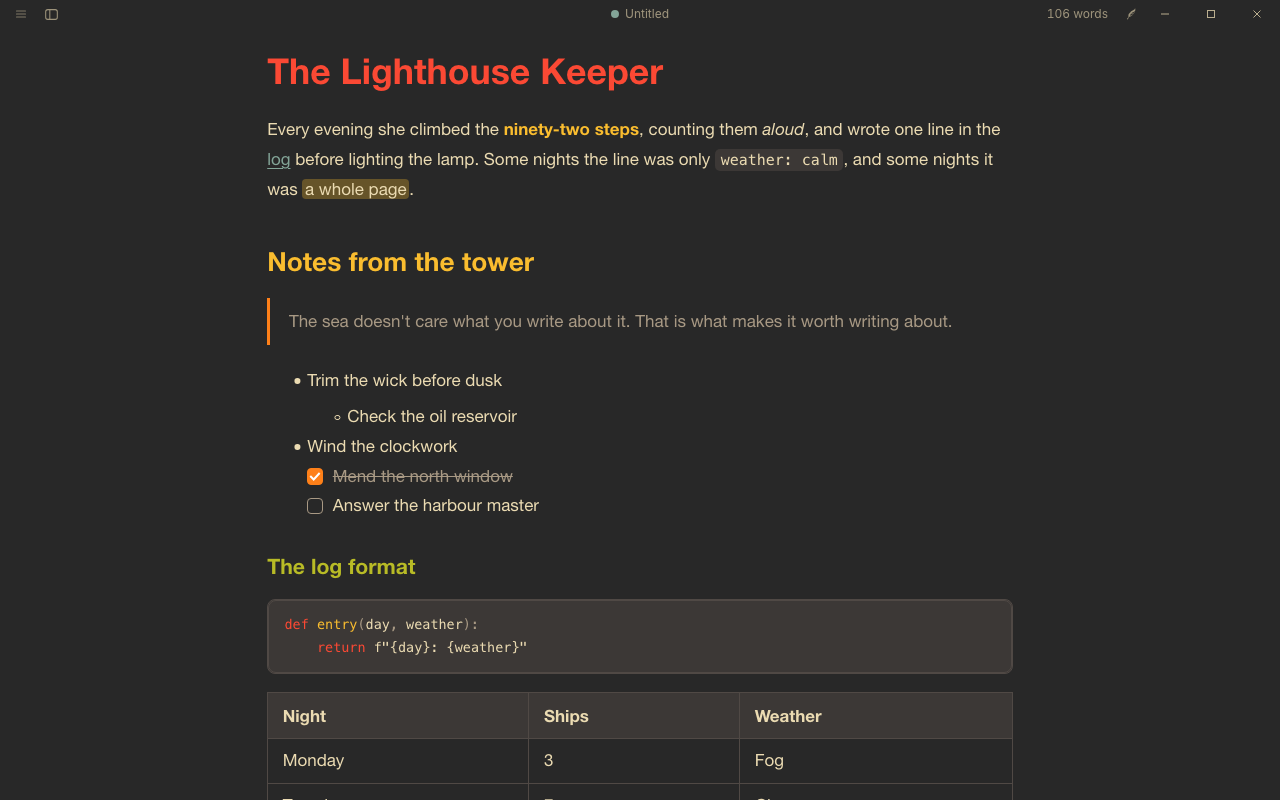
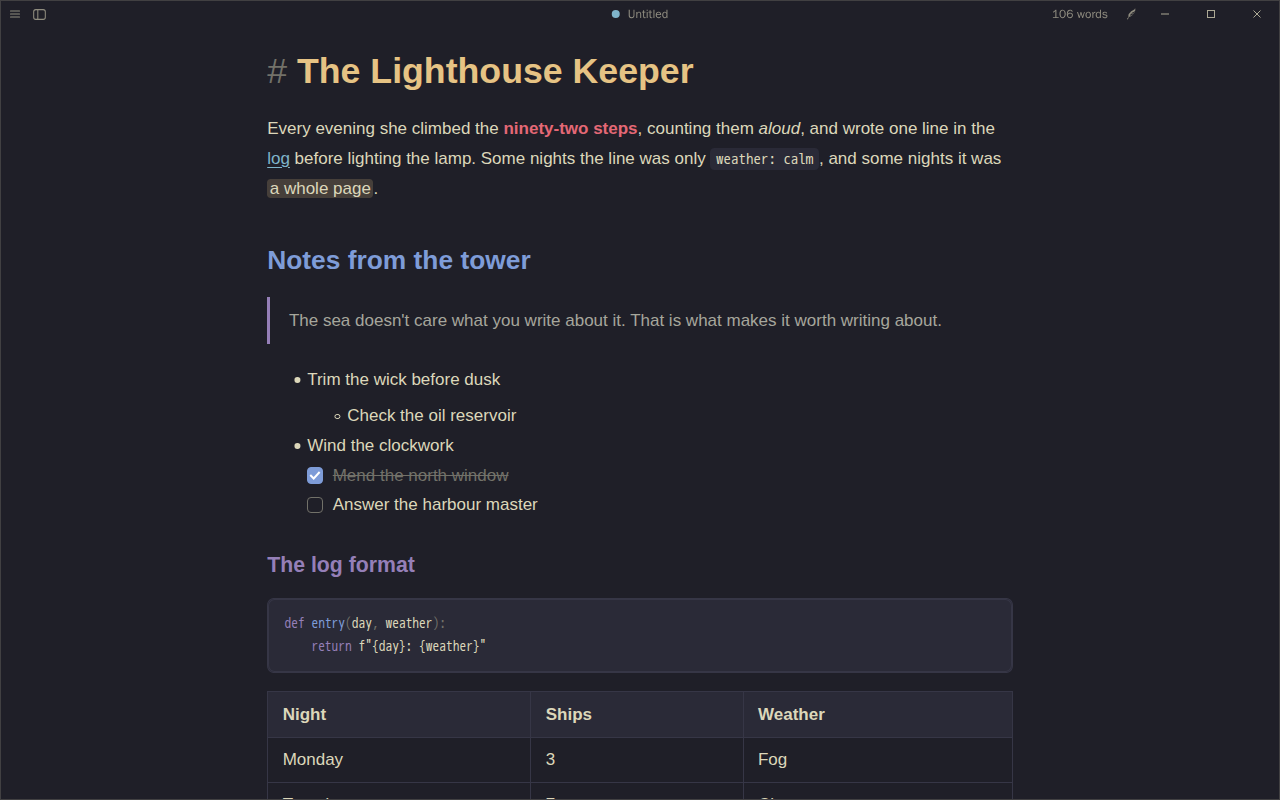
Calmer Latte & Mocha and Fjord headings; Retro Wood on the Kanagawa palette

diff --git a/themes/retro-wood/theme-dark.css b/themes/retro-wood/theme-dark.css
@@ -1,48 +1,47 @@
 /*! Retro Wood (dark) - a Textus theme by @CatVinci-Studio
- *  Palette: gruvbox by Pavel Pertsev (morhetz) (MIT/X11)
- *  After Obsidian gruvbox by insanum (MIT)
+ *  Palette: Kanagawa by rebelot (MIT), https://github.com/rebelot/kanagawa.nvim - our own CSS
  *  License: MIT
  *  Source: https://github.com/CatVinci-Studio/textus-themes
  */
 
-/* Warm and retro: Gruvbox's faded cream and dark wood, a six-hue heading ladder and a yellow bold. */
+/* Woodblock colours: Kanagawa's lotus paper by day and wave ink at night, indigo and violet headings. */
 
 :root {
-  --editor-bg: #282828;
-  --editor-text: #ebdbb2;
-  --editor-muted: #a89984;
-  --editor-border: #504945;
-  --editor-quote-border: #fe8019;
-  --editor-accent: #fe8019;
-  --editor-code-bg: #3c3836;
-  --editor-highlight-bg: rgba(250, 189, 47, 0.3);
+  --editor-bg: #1f1f28;
+  --editor-text: #dcd7ba;
+  --editor-muted: #727169;
+  --editor-border: #363646;
+  --editor-quote-border: #957fb8;
+  --editor-accent: #7e9cd8;
+  --editor-code-bg: #2a2a37;
+  --editor-highlight-bg: rgba(230, 195, 132, 0.2);
   --editor-font: -apple-system, "Segoe UI", Roboto, "Helvetica Neue", Arial, "PingFang SC", "Hiragino Sans", "Noto Sans CJK SC", "Microsoft YaHei", sans-serif;
   --theme-heading-font: -apple-system, "Segoe UI", Roboto, "Helvetica Neue", Arial, "PingFang SC", "Hiragino Sans", "Noto Sans CJK SC", "Microsoft YaHei", sans-serif;
   --theme-mono: var(--font-mono, monospace);
-  --theme-link: #83a598;
-  --theme-strong: #fabd2f;
+  --theme-link: #7fb4ca;
+  --theme-strong: #e46876;
   --theme-quote-bg: transparent;
-  --theme-quote-text: #a89984;
-  --theme-code-text: #ebdbb2;
-  --theme-pre-bg: #3c3836;
-  --theme-th-bg: #3c3836;
-  --theme-th-text: #ebdbb2;
-  --theme-selection: rgba(146, 131, 116, 0.35);
-  --theme-h1: #fb4934;
-  --theme-h2: #fabd2f;
-  --theme-h3: #b8bb26;
-  --theme-h4: #8ec07c;
-  --theme-h5: #83a598;
-  --theme-h6: #d3869b;
-  --tone-blue: #83a598;
-  --tone-green: #b8bb26;
-  --tone-orange: #fe8019;
-  --tone-purple: #d3869b;
-  --tone-red: #fb4934;
-  --tone-teal: #8ec07c;
-  --tone-yellow: #fabd2f;
-  --tone-pink: #e491a8;
-  --tone-gray: #a89984;
+  --theme-quote-text: #a6a69c;
+  --theme-code-text: #dcd7ba;
+  --theme-pre-bg: #2a2a37;
+  --theme-th-bg: #2a2a37;
+  --theme-th-text: #dcd7ba;
+  --theme-selection: rgba(126, 156, 216, 0.25);
+  --theme-h1: #e6c384;
+  --theme-h2: #7e9cd8;
+  --theme-h3: #957fb8;
+  --theme-h4: #98bb6c;
+  --theme-h5: #a6a69c;
+  --theme-h6: #a6a69c;
+  --tone-blue: #7e9cd8;
+  --tone-green: #98bb6c;
+  --tone-orange: #ffa066;
+  --tone-purple: #957fb8;
+  --tone-red: #e46876;
+  --tone-teal: #7aa89f;
+  --tone-yellow: #e6c384;
+  --tone-pink: #d27e99;
+  --tone-gray: #727169;
 }
 
 body {
@@ -56,12 +55,12 @@ body {
   font-size: 1.0625rem;
   line-height: 1.75;
   color-scheme: dark;
-  --token-keyword: #fb4934;
-  --token-function: #fabd2f;
-  --token-string: #b8bb26;
-  --token-number: #d3869b;
-  --token-tag: #8ec07c;
-  --token-comment: #928374;
+  --token-keyword: #957fb8;
+  --token-function: #7e9cd8;
+  --token-string: #98bb6c;
+  --token-number: #ffa066;
+  --token-tag: #e46876;
+  --token-comment: #727169;
 }
 
 #write h1,

diff --git a/themes/retro-wood/theme.css b/themes/retro-wood/theme.css
@@ -1,48 +1,47 @@
 /*! Retro Wood (light) - a Textus theme by @CatVinci-Studio
- *  Palette: gruvbox by Pavel Pertsev (morhetz) (MIT/X11)
- *  After Obsidian gruvbox by insanum (MIT)
+ *  Palette: Kanagawa by rebelot (MIT), https://github.com/rebelot/kanagawa.nvim - our own CSS
  *  License: MIT
  *  Source: https://github.com/CatVinci-Studio/textus-themes
  */
 
-/* Warm and retro: Gruvbox's faded cream and dark wood, a six-hue heading ladder and a yellow bold. */
+/* Woodblock colours: Kanagawa's lotus paper by day and wave ink at night, indigo and violet headings. */
 
 :root {
-  --editor-bg: #fbf1c7;
-  --editor-text: #3c3836;
-  --editor-muted: #7c6f64;
-  --editor-border: #d5c4a1;
-  --editor-quote-border: #d65d0e;
-  --editor-accent: #af3a03;
-  --editor-code-bg: #ebdbb2;
-  --editor-highlight-bg: rgba(250, 189, 47, 0.45);
+  --editor-bg: #f2ecbc;
+  --editor-text: #545464;
+  --editor-muted: #8a8980;
+  --editor-border: #dcd5ac;
+  --editor-quote-border: #766b90;
+  --editor-accent: #4d699b;
+  --editor-code-bg: #e7dba0;
+  --editor-highlight-bg: rgba(204, 109, 0, 0.18);
   --editor-font: -apple-system, "Segoe UI", Roboto, "Helvetica Neue", Arial, "PingFang SC", "Hiragino Sans", "Noto Sans CJK SC", "Microsoft YaHei", sans-serif;
   --theme-heading-font: -apple-system, "Segoe UI", Roboto, "Helvetica Neue", Arial, "PingFang SC", "Hiragino Sans", "Noto Sans CJK SC", "Microsoft YaHei", sans-serif;
   --theme-mono: var(--font-mono, monospace);
-  --theme-link: #076678;
-  --theme-strong: #b57614;
+  --theme-link: #4d699b;
+  --theme-strong: #c84053;
   --theme-quote-bg: transparent;
-  --theme-quote-text: #7c6f64;
-  --theme-code-text: #3c3836;
-  --theme-pre-bg: #ebdbb2;
-  --theme-th-bg: #ebdbb2;
-  --theme-th-text: #3c3836;
-  --theme-selection: rgba(213, 196, 161, 0.6);
-  --theme-h1: #9d0006;
-  --theme-h2: #b57614;
-  --theme-h3: #79740e;
-  --theme-h4: #427b58;
-  --theme-h5: #076678;
-  --theme-h6: #8f3f71;
-  --tone-blue: #076678;
-  --tone-green: #79740e;
-  --tone-orange: #af3a03;
-  --tone-purple: #8f3f71;
-  --tone-red: #9d0006;
-  --tone-teal: #427b58;
-  --tone-yellow: #b57614;
-  --tone-pink: #b0466a;
-  --tone-gray: #7c6f64;
+  --theme-quote-text: #716e61;
+  --theme-code-text: #545464;
+  --theme-pre-bg: #e7dba0;
+  --theme-th-bg: #e7dba0;
+  --theme-th-text: #545464;
+  --theme-selection: rgba(77, 105, 155, 0.2);
+  --theme-h1: #43436c;
+  --theme-h2: #4d699b;
+  --theme-h3: #624c83;
+  --theme-h4: #6f894e;
+  --theme-h5: #8a8980;
+  --theme-h6: #8a8980;
+  --tone-blue: #4d699b;
+  --tone-green: #6f894e;
+  --tone-orange: #cc6d00;
+  --tone-purple: #624c83;
+  --tone-red: #c84053;
+  --tone-teal: #597b75;
+  --tone-yellow: #77713f;
+  --tone-pink: #b35b79;
+  --tone-gray: #8a8980;
 }
 
 body {
@@ -56,12 +55,12 @@ body {
   font-size: 1.0625rem;
   line-height: 1.75;
   color-scheme: light;
-  --token-keyword: #9d0006;
-  --token-function: #b57614;
-  --token-string: #79740e;
-  --token-number: #8f3f71;
-  --token-tag: #427b58;
-  --token-comment: #928374;
+  --token-keyword: #624c83;
+  --token-function: #4d699b;
+  --token-string: #6f894e;
+  --token-number: #cc6d00;
+  --token-tag: #c84053;
+  --token-comment: #8a8980;
 }
 
 #write h1,

diff --git a/themes/fjord/theme-dark.css b/themes/fjord/theme-dark.css
@@ -5,7 +5,7 @@
  *  Source: https://github.com/CatVinci-Studio/textus-themes
  */
 
-/* Arctic and calm: Nord's snow storm by day and polar night after dark, frost-blue links and aurora headings at night. */
+/* Arctic and calm: Nord's snow storm by day and polar night after dark, frost-blue headings and links. */
 
 :root {
   --editor-bg: #2e3440;
@@ -20,7 +20,7 @@
   --theme-heading-font: -apple-system, "Segoe UI", Roboto, "Helvetica Neue", Arial, "PingFang SC", "Hiragino Sans", "Noto Sans CJK SC", "Microsoft YaHei", sans-serif;
   --theme-mono: var(--font-mono, monospace);
   --theme-link: #88c0d0;
-  --theme-strong: #ebcb8b;
+  --theme-strong: #eceff4;
   --theme-quote-bg: transparent;
   --theme-quote-text: #a1a9b8;
   --theme-code-text: #d8dee9;
@@ -28,12 +28,12 @@
   --theme-th-bg: #3b4252;
   --theme-th-text: #d8dee9;
   --theme-selection: rgba(136, 192, 208, 0.25);
-  --theme-h1: #bf616a;
-  --theme-h2: #ebcb8b;
-  --theme-h3: #a3be8c;
+  --theme-h1: #88c0d0;
+  --theme-h2: #81a1c1;
+  --theme-h3: #8fbcbb;
   --theme-h4: #b48ead;
-  --theme-h5: #8fbcbb;
-  --theme-h6: #81a1c1;
+  --theme-h5: #a1a9b8;
+  --theme-h6: #a1a9b8;
   --tone-blue: #81a1c1;
   --tone-green: #a3be8c;
   --tone-orange: #d08770;

diff --git a/themes/latte-mocha/theme-dark.css b/themes/latte-mocha/theme-dark.css
@@ -5,7 +5,7 @@
  *  Source: https://github.com/CatVinci-Studio/textus-themes
  */
 
-/* Soft pastels: Catppuccin's Latte by day and Mocha by night, mauve accents, lavender quotes and peach highlights. */
+/* Soft pastels: Catppuccin's Latte by day and Mocha by night, a mauve title, blue section heads and a rosewater bold. */
 
 :root {
   --editor-bg: #1e1e2e;
@@ -20,7 +20,7 @@
   --theme-heading-font: -apple-system, "Segoe UI", Roboto, "Helvetica Neue", Arial, "PingFang SC", "Hiragino Sans", "Noto Sans CJK SC", "Microsoft YaHei", sans-serif;
   --theme-mono: var(--font-mono, monospace);
   --theme-link: #89b4fa;
-  --theme-strong: #74c7ec;
+  --theme-strong: #f5e0dc;
   --theme-quote-bg: rgba(180, 190, 254, 0.06);
   --theme-quote-text: #a6adc8;
   --theme-code-text: #cba6f7;
@@ -29,11 +29,11 @@
   --theme-th-text: #cdd6f4;
   --theme-selection: rgba(147, 153, 178, 0.25);
   --theme-h1: #cba6f7;
-  --theme-h2: #89b4fa;
-  --theme-h3: #94e2d5;
-  --theme-h4: #f9e2af;
-  --theme-h5: #eba0ac;
-  --theme-h6: #cdd6f4;
+  --theme-h2: #cdd6f4;
+  --theme-h3: #89b4fa;
+  --theme-h4: #cdd6f4;
+  --theme-h5: #a6adc8;
+  --theme-h6: #a6adc8;
   --tone-blue: #89b4fa;
   --tone-green: #a6e3a1;
   --tone-orange: #fab387;

diff --git a/themes/latte-mocha/theme.css b/themes/latte-mocha/theme.css
@@ -5,7 +5,7 @@
  *  Source: https://github.com/CatVinci-Studio/textus-themes
  */
 
-/* Soft pastels: Catppuccin's Latte by day and Mocha by night, mauve accents, lavender quotes and peach highlights. */
+/* Soft pastels: Catppuccin's Latte by day and Mocha by night, a mauve title, blue section heads and a rosewater bold. */
 
 :root {
   --editor-bg: #eff1f5;
@@ -20,7 +20,7 @@
   --theme-heading-font: -apple-system, "Segoe UI", Roboto, "Helvetica Neue", Arial, "PingFang SC", "Hiragino Sans", "Noto Sans CJK SC", "Microsoft YaHei", sans-serif;
   --theme-mono: var(--font-mono, monospace);
   --theme-link: #1e66f5;
-  --theme-strong: #209fb5;
+  --theme-strong: #dc8a78;
   --theme-quote-bg: rgba(114, 135, 253, 0.06);
   --theme-quote-text: #6c6f85;
   --theme-code-text: #8839ef;
@@ -29,11 +29,11 @@
   --theme-th-text: #4c4f69;
   --theme-selection: rgba(124, 127, 147, 0.25);
   --theme-h1: #8839ef;
-  --theme-h2: #1e66f5;
-  --theme-h3: #179299;
-  --theme-h4: #df8e1d;
-  --theme-h5: #e64553;
-  --theme-h6: #4c4f69;
+  --theme-h2: #4c4f69;
+  --theme-h3: #1e66f5;
+  --theme-h4: #4c4f69;
+  --theme-h5: #6c6f85;
+  --theme-h6: #6c6f85;
   --tone-blue: #1e66f5;
   --tone-green: #40a02b;
   --tone-orange: #fe640b;

diff --git a/themes/fjord/theme.css b/themes/fjord/theme.css
@@ -5,7 +5,7 @@
  *  Source: https://github.com/CatVinci-Studio/textus-themes
  */
 
-/* Arctic and calm: Nord's snow storm by day and polar night after dark, frost-blue links and aurora headings at night. */
+/* Arctic and calm: Nord's snow storm by day and polar night after dark, frost-blue headings and links. */
 
 :root {
   --editor-bg: #eceff4;
